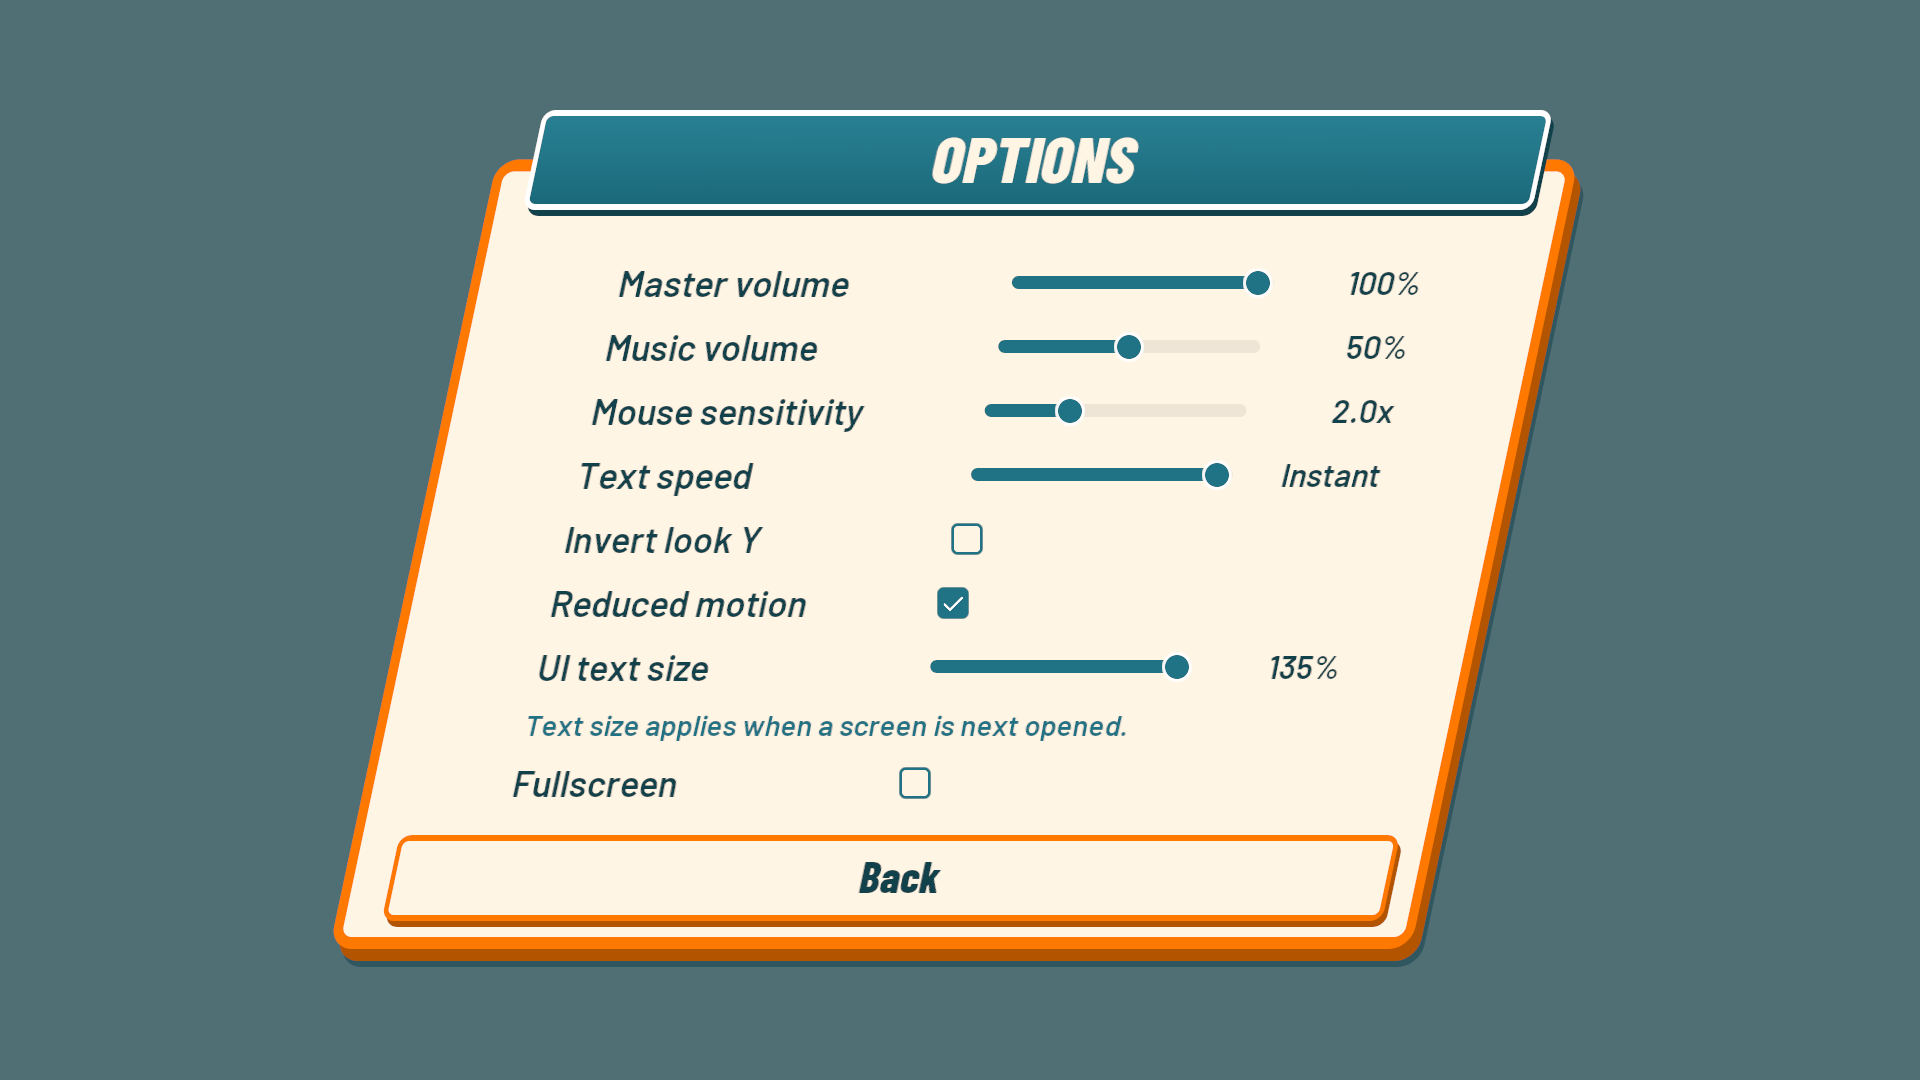
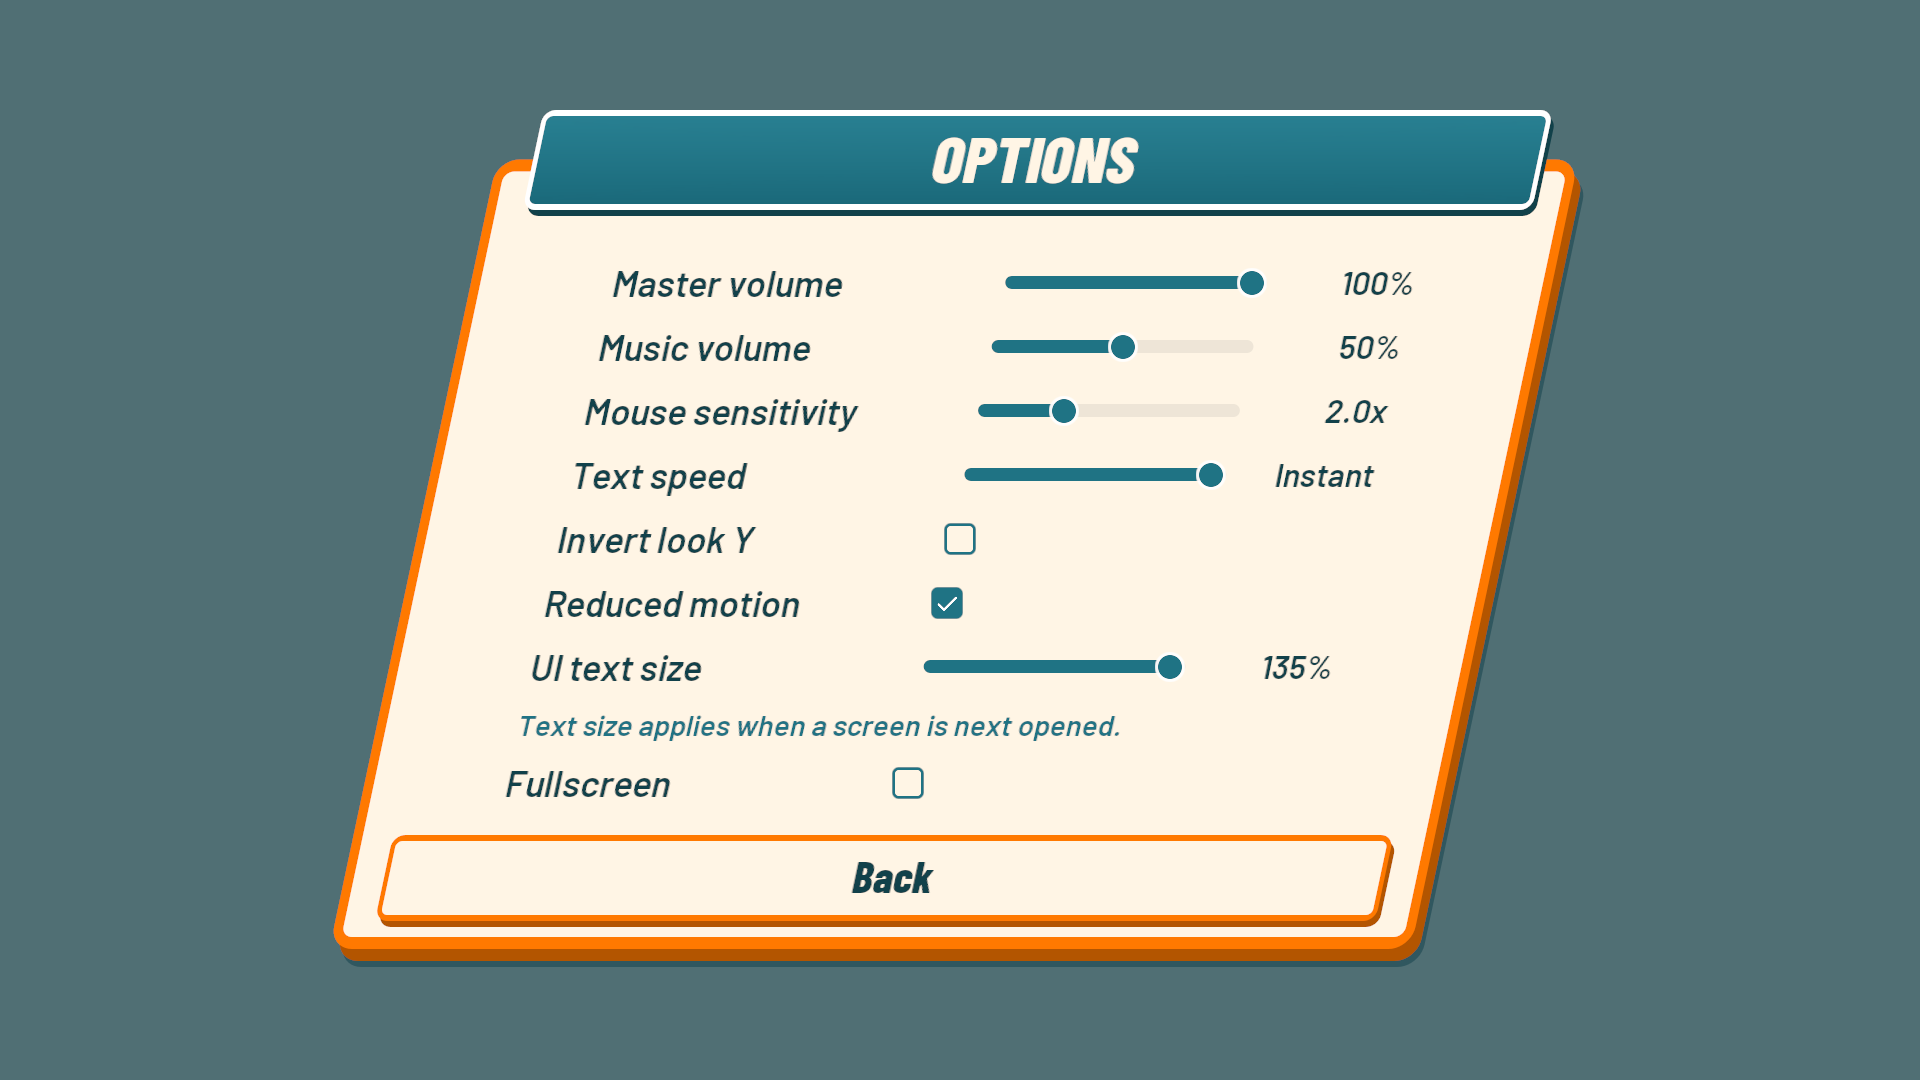
Popups: centre buttons on the card face, hide the layout settling
- The 12-degree stack centred rows on the card's padding box, so the
  card's extrusion, shadow and header reserve pushed buttons ~4.5 units
  right. Card screens now balance their left/right padding so a button's
  top layer (face and keyline) centres on the card's face; measured
  within 1 px on pause, end-day and options.
- Cards stay invisible until wrapped text and the header fit stop
  changing, then pop in, so the reflow is never seen.
- The 12-degree stack converts row positions in layout space, so an
  ancestor's render scale can't push rows off their slots.

diff --git a/Source/ICanFixHim/UI/FixHimUI.cpp b/Source/ICanFixHim/UI/FixHimUI.cpp
@@ -351,6 +351,10 @@ void UFixHimWidget::NativeConstruct()
 	if (PopCard)
 	{
 		PopCard->SetRenderScale(FVector2D(FixHimDesign::ReducedMotion() ? 1.f : .96f));
+		PopCard->SetRenderOpacity(0.f);
+		bPopSettled = false;
+		PopStableFrames = 0;
+		PopLastSize = FVector2D::ZeroVector;
 		FixHim::Sfx(this, OpenSfx, 1.f, 0.03f);
 	}
 }
@@ -431,7 +435,22 @@ FReply UFixHimWidget::NativeOnMouseButtonDown(const FGeometry &InGeometry, const
 void UFixHimWidget::NativeTick(const FGeometry &MyGeometry, float InDeltaTime)
 {
 	Super::NativeTick(MyGeometry, InDeltaTime);
-	SyncHeaderLayouts();
+	const bool bHeaderMoved = SyncHeaderLayouts();
+	if (PopCard && !bPopSettled)
+	{
+		// Wrapped text settles its height a frame or two after the first paint, and the header re-fits to it.
+		// Showing that reflow reads as the layout breaking, so hold the card hidden until two quiet frames pass.
+		const FVector2D PopSize = PopCard->GetDesiredSize();
+		const bool bQuiet = !bHeaderMoved && PopSize.X > 0 && PopSize.Equals(PopLastSize, .5);
+		PopLastSize = PopSize;
+		PopStableFrames = bQuiet ? PopStableFrames + 1 : 0;
+		if (PopStableFrames >= 2 || ShownAge > .5f)
+		{
+			bPopSettled = true;
+			PopAge = 0.f;
+			PopCard->SetRenderOpacity(1.f);
+		}
+	}
 	ShownAge += InDeltaTime;
 	if (!bInitialFocus && ShownAge > .12f)
 	{
@@ -455,7 +474,7 @@ void UFixHimWidget::NativeTick(const FGeometry &MyGeometry, float InDeltaTime)
 			});
 	}
 	constexpr float PopSeconds = 0.22f;
-	if (PopCard && PopAge < PopSeconds)
+	if (PopCard && bPopSettled && PopAge < PopSeconds)
 	{
 		PopAge += InDeltaTime;
 		const float S =
@@ -507,9 +526,10 @@ UWidget *UFixHimWidget::MakeHeaderedSurface(UBorder *Surface, UWidget *Header, c
 	return Stack;
 }
 
-void UFixHimWidget::SyncHeaderLayouts()
+bool UFixHimWidget::SyncHeaderLayouts()
 {
 	const float K = FixHimDesign::Slant;
+	bool bMoved = false;
 	for (FHeaderLayout &L : HeaderLayouts)
 	{
 		UWidget *Header = L.Header.Get();
@@ -529,6 +549,7 @@ void UFixHimWidget::SyncHeaderLayouts()
 		if (Measured.Equals(L.Measured, .5))
 			continue;
 		L.Measured = Measured;
+		bMoved = true;
 		const float PlateFace = FMath::Max(0.f, HeaderH - PlateDepthY), Drop = PlateFace * .5f;
 		const auto *DesignSurface = Cast<UFixHimSurface>(Surface);
 		const float SurfaceBorder = DesignSurface ? DesignSurface->BorderWidth : FixHimDesign::ButtonBorder;
@@ -539,6 +560,18 @@ void UFixHimWidget::SyncHeaderLayouts()
 		FMargin P = L.Padding;
 		if (bShown)
 			P.Top += HeaderH - Drop;
+		if (L.bCentreRows)
+		{
+			// A UFixHimStack centres each row against its own box; the face is that box minus the extrusion and
+			// shadow reserve (right, bottom), leaning 12 degrees. Measured at any row, the row sits right of the
+			// face's centre by this much; move the padding over so rows centre on the face.
+				// Rows are mostly buttons, and a button's box also holds its extrusion on the right. Centre the button's
+			// top layer (face and keyline, no extrusion) on the card's top layer: subtract half its reserve too.
+			const float Shift = (P.Left - P.Right) * .5f + SurfaceDepthX * .5f +
+			                    K * (P.Top - P.Bottom + SurfaceDepthY) * .5f - PlateDepthX * .5f;
+			P.Left -= Shift;
+			P.Right += Shift;
+		}
 		Surface->SetPadding(P);
 		// Both faces lean 12 degrees. At the plate's mid-height (the surface's top edge) the surface face spans
 		// [FaceH*K, BoxW-SurfaceDepthX] and the plate face spans [Left + Drop*K, Left + PlateW - PlateDepthX - Drop*K].
@@ -548,6 +581,7 @@ void UFixHimWidget::SyncHeaderLayouts()
 		if (auto *HeaderSlot = Cast<UOverlaySlot>(Header->Slot))
 			HeaderSlot->SetPadding(FMargin(Left, 0, Right, 0));
 	}
+	return bMoved;
 }
 
 UVerticalBox *UFixHimWidget::MakeCardScreen(const FString &Title, float Width)
@@ -574,7 +608,24 @@ UVerticalBox *UFixHimWidget::MakeCardScreen(const FString &Title, float Width)
 	Card->SetBrush(Rounded(Cream, 28.f, Pink, 4.f));
 	Card->BorderWidth = FixHimDesign::PopupBorder;
 	CardSurface = Card;
-	Size->AddChild(MakeHeaderedSurface(Card, Title, FMargin(32, 32, 40, 40)));
+	const FMargin CardPadding(32, 32, 40, 40);
+	Size->AddChild(MakeHeaderedSurface(Card, Title, CardPadding));
+	if (!Title.IsEmpty())
+	{
+		HeaderLayouts.Last().bCentreRows = true;
+		HeaderLayouts.Last().Measured = FVector2D(-1, -1);
+		SyncHeaderLayouts();
+	}
+	else
+	{
+		// Titleless (ending) cards: same centring as SyncHeaderLayouts, with fixed padding.
+		using namespace FixHimDesign;
+		const float Shift = (CardPadding.Left - CardPadding.Right) * .5f + DepthReserveX(PopupBorder) * .5f +
+		                    Slant * (CardPadding.Top - CardPadding.Bottom + DepthReserveY(PopupBorder)) * .5f -
+		                    DepthReserveX(ButtonBorder) * .5f;
+		Card->SetPadding(FMargin(CardPadding.Left - Shift, CardPadding.Top, CardPadding.Right + Shift,
+		                         CardPadding.Bottom));
+	}
 	Size->SetRenderTransformPivot(FVector2D(.5f, .5f));
 	PopCard = Size;
 	auto *Layout = WidgetTree->ConstructWidget<UFixHimStack>();

diff --git a/Source/ICanFixHim/UI/FixHimDesign.cpp b/Source/ICanFixHim/UI/FixHimDesign.cpp
@@ -356,9 +356,12 @@ class SDesignStack : public SVerticalBox
 		SVerticalBox::OnArrangeChildren(Inner, Base);
 		for (const FArrangedWidget &Child : Base.GetInternalArray())
 		{
-			// Layout position only: GetAbsolutePosition() includes the child's render transform (text shear), which
-			// MakeChild below applies again, so sheared rows would drift right by half their height * tan(12).
-			FVector2D Pos = G.AbsoluteToLocal(FVector2D(Child.Geometry.GetAccumulatedLayoutTransform().GetTranslation()));
+			// Work in layout space on both sides. GetAbsolutePosition() includes the child's render transform (text
+			// shear), which MakeChild below applies again; and G.AbsoluteToLocal() inverts the *render* transform, so
+			// an ancestor's render scale (the card pop-in) would push every row off its layout slot.
+			const FVector2D Pos0 = FVector2D(G.GetAccumulatedLayoutTransform().Inverse().TransformPoint(
+			    Child.Geometry.GetAccumulatedLayoutTransform().GetTranslation()));
+			FVector2D Pos = Pos0;
 			Pos.X += (Size.Y - Pos.Y - Child.Geometry.GetLocalSize().Y * .5f) * FixHimDesign::Slant;
 			Children.AddWidget(G.MakeChild(Child.Widget, Pos, Child.Geometry.GetLocalSize()));
 		}

diff --git a/Source/ICanFixHim/UI/FixHimUI.h b/Source/ICanFixHim/UI/FixHimUI.h
@@ -244,10 +244,17 @@ class ICANFIXHIM_API UFixHimWidget : public UUserWidget
 		TWeakObjectPtr<UBorder> Surface;
 		FMargin Padding;
 		float Inset = 36.f;
+		/** Balance left/right padding so 12-degree stack rows centre on the slanted face (card screens). */
+		bool bCentreRows = false;
 		FVector2D Measured = FVector2D(-1, -1);
 	};
 	TArray<FHeaderLayout> HeaderLayouts;
-	/** Re-fits straddling headers to their measured plate and surface sizes (text size and content can change). */
-	void SyncHeaderLayouts();
+	/** Re-fits straddling headers to their measured plate and surface sizes (text size and content can change).
+	 * Returns true if anything moved. */
+	bool SyncHeaderLayouts();
+	/** The pop card stays invisible until its layout (wrapping, header fit) stops changing, then pops in. */
+	bool bPopSettled = false;
+	int32 PopStableFrames = 0;
+	FVector2D PopLastSize = FVector2D::ZeroVector;
 	bool bInitialFocus = false;
 };

diff --git a/Source/ICanFixHim/Tests/FixHimDesignSystemTest.cpp b/Source/ICanFixHim/Tests/FixHimDesignSystemTest.cpp
@@ -99,6 +99,9 @@ bool FFixHimDesignSystemTest::RunTest(const FString &Parameters)
 			Renderer.DrawWidget(RT, Scaled, Physical, 0.016f);
 			FlushRenderingCommands();
 		}
+		if (W->PopCard)
+			TestTrue(*FString::Printf(TEXT("%s: card is shown once its layout settles"), *Name),
+			         W->bPopSettled && W->PopCard->GetRenderOpacity() == 1.f);
 		FImage LinearImage, EncodedImage;
 		TestTrue(TEXT("Read linear HDR widget image"), FImageUtils::GetRenderTargetImage(RT, LinearImage));
 		LinearImage.CopyTo(EncodedImage, ERawImageFormat::BGRA8, EGammaSpace::sRGB);

diff --git a/docs/04 Tech/UI Component Library.md b/docs/04 Tech/UI Component Library.md
@@ -27,7 +27,7 @@ The contour is generated at the current allocated size with tessellated rounded 
 
 `UFixHimStack` is a vertical layout whose child anchors follow the 12° grid. It reserves the required horizontal space, adjusts row positions along the grid, and keeps each child's own geometry upright. It positions rows from their layout transform only, so a row's own render transform (text shear) is not applied twice. Use it for card content and menu columns. Keep spatial floor-plan cells rectangular so the room geometry remains truthful.
 
-Use the common popup `MakeCardScreen` rather than building a new modal frame per screen. It supplies the scrim, surface, header, bounded scrolling, opening motion and click-outside boundary. A titleless shell supports ending cards. Actions stack vertically.
+Use the common popup `MakeCardScreen` rather than building a new modal frame per screen. It supplies the scrim, surface, header, bounded scrolling, opening motion and click-outside boundary. The card stays invisible until its layout stops changing (wrapped text settling, header re-fit), then pops in, so the reflow is never seen. Its left/right padding is balanced so that buttons' top layer (face and keyline, not the extrusion) centres on the card's face despite the 12° row stagger and the card's own extrusion, shadow and header reserve. A titleless shell supports ending cards. Actions stack vertically.
 
 ## Buttons and inline topics
 
